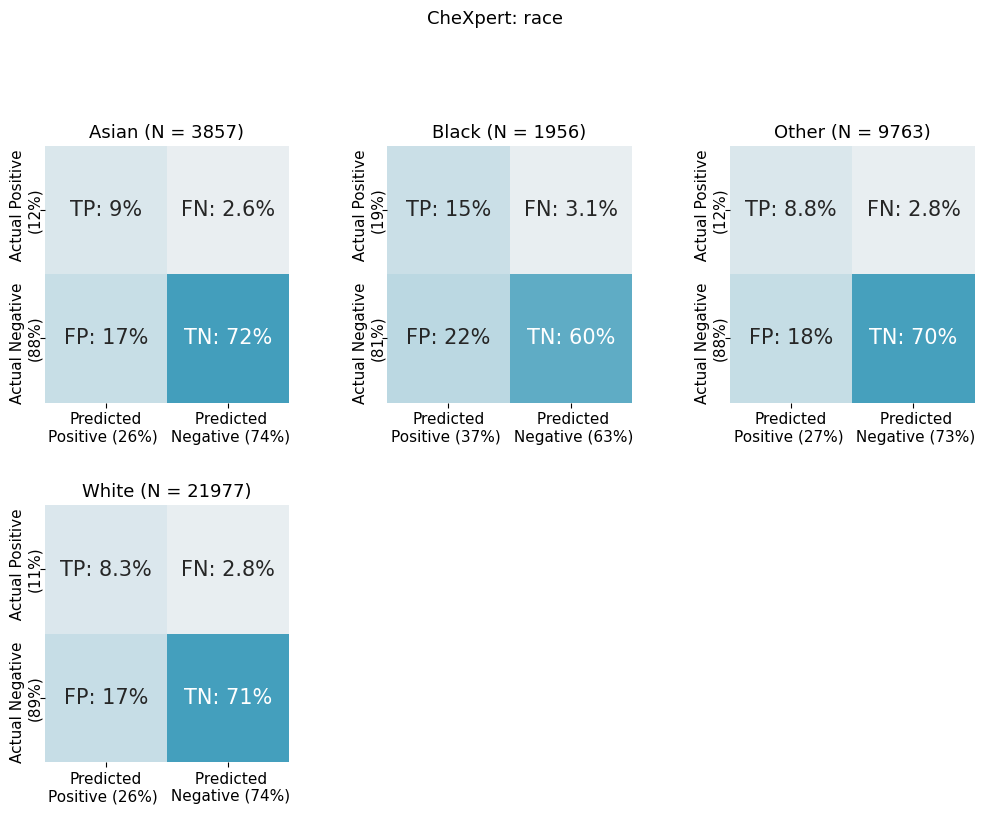
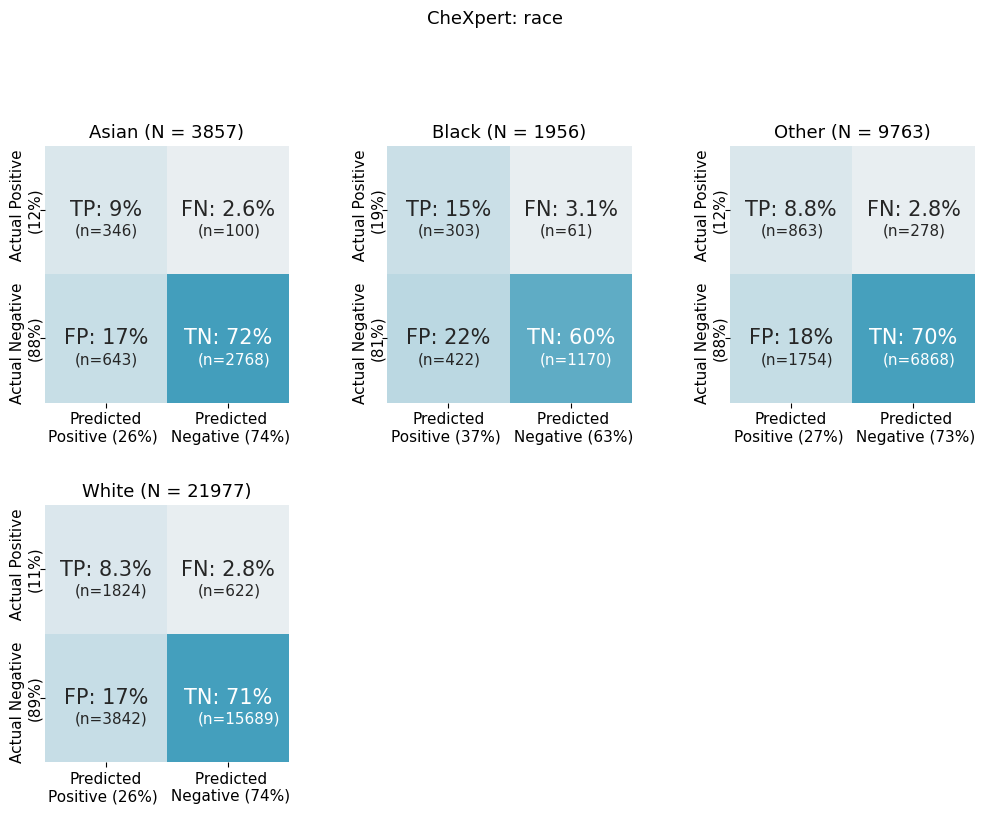
confusion matrices for race with N on

diff --git a/src/visualization_description/evaluater_chexpert.py b/src/visualization_description/evaluater_chexpert.py
@@ -15,13 +15,14 @@ fig_path_chexpert = '../Thesis-report/00_figures/cheXpert/'
 
 l3_report_plots_chexpert = [
     ['cheXpert_race', 'roc_curves'],
-    ['cheXpert_race', 'calibration']] # Add more here later
+    ['cheXpert_race', 'calibration'],
+    ['cheXpert_race', 'confusion_matrix']] # Add more here later
 
-update_figures  = False
+update_figures  = True
 update_report_figures = False # Write new figures to report repository?
-run_all_plots = False
+run_all_plots = True
 run_l3_plots = False
-make_table = True
+make_table = False
 
 #############################################
 #%% Functions
@@ -164,7 +165,7 @@ if __name__ == '__main__':
             make_all_plots(kit, 
                 save_plots = update_figures,
                 plot_path = path, 
-                **{'suptitle': False, 'threshold': threshold})
+                **{'suptitle': False, 'threshold': threshold, "cm_print_n":True})
 
         # Get plots for report
         if update_report_figures:
@@ -193,7 +194,7 @@ if __name__ == '__main__':
         print(total_table.to_latex(index= False))
        
     if run_l3_plots:
-        kwargs = {"threshold": threshold, "n_bins": 10}
+        kwargs = {"threshold": threshold, "n_bins": 10, "cm_print_n":True}
         for dataset, method in l3_report_plots_chexpert:
             chexpert_kits[dataset].level_3(
                 method = method, 
